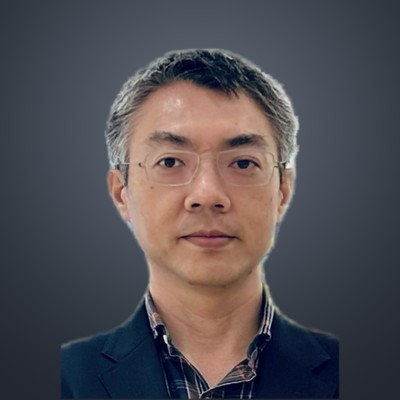
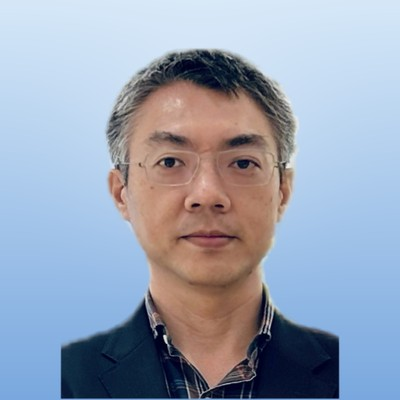
Peter Chen 照片背景改淺藍漸層（灰底太沉）

diff --git a/operators/index.html b/operators/index.html
@@ -241,7 +241,7 @@ button{cursor:pointer;border:none;background:none;font-family:inherit}
           <div class="adv-org" data-en="NVIDIA" data-zh="NVIDIA">NVIDIA</div>
           <div class="adv-role" data-en="Senior Engineer" data-zh="資深工程師">Senior Engineer</div>
         </div>
-        <div class="adv-av"><img src="../Team/Peter.jpg?v=3" alt="Peter Chen" loading="lazy" width="78" height="78"></div>
+        <div class="adv-av"><img src="../Team/Peter.jpg?v=4" alt="Peter Chen" loading="lazy" width="78" height="78"></div>
         <div class="adv-name">Peter Chen</div>
         <div class="adv-vert">DeepTech</div>
         <a href="https://www.linkedin.com/in/peter-chen-53131a51/" target="_blank" rel="noopener" class="adv-li"><svg viewBox="0 0 24 24"><path d="M19 3a2 2 0 0 1 2 2v14a2 2 0 0 1-2 2H5a2 2 0 0 1-2-2V5a2 2 0 0 1 2-2h14m-.5 15.5v-5.3a3.26 3.26 0 0 0-3.26-3.26c-.85 0-1.84.52-2.32 1.3v-1.11h-2.79v8.37h2.79v-4.93c0-.77.62-1.4 1.39-1.4a1.4 1.4 0 0 1 1.4 1.4v4.93h2.79M6.88 8.56a1.68 1.68 0 0 0 1.68-1.68c0-.93-.75-1.69-1.68-1.69a1.69 1.69 0 0 0-1.69 1.69c0 .93.76 1.68 1.69 1.68m1.39 9.94v-8.37H5.5v8.37h2.77z"/></svg><span>LinkedIn</span></a>

diff --git a/index.html b/index.html
@@ -1255,7 +1255,7 @@ footer{background:#060F1E;padding:72px 0 0}
           <div class="adv-org" data-en="NVIDIA" data-zh="NVIDIA">NVIDIA</div>
           <div class="adv-role" data-en="Senior Engineer" data-zh="資深工程師">Senior Engineer</div>
         </div>
-        <div class="adv-av"><img src="Team/Peter.jpg?v=3" alt="Peter Chen" loading="lazy" width="78" height="78"></div>
+        <div class="adv-av"><img src="Team/Peter.jpg?v=4" alt="Peter Chen" loading="lazy" width="78" height="78"></div>
         <div class="adv-name">Peter Chen</div>
         <div class="adv-vert">DeepTech</div>
         <a href="https://www.linkedin.com/in/peter-chen-53131a51/" target="_blank" rel="noopener" class="adv-li"><svg viewBox="0 0 24 24"><path d="M19 3a2 2 0 0 1 2 2v14a2 2 0 0 1-2 2H5a2 2 0 0 1-2-2V5a2 2 0 0 1 2-2h14m-.5 15.5v-5.3a3.26 3.26 0 0 0-3.26-3.26c-.85 0-1.84.52-2.32 1.3v-1.11h-2.79v8.37h2.79v-4.93c0-.77.62-1.4 1.39-1.4a1.4 1.4 0 0 1 1.4 1.4v4.93h2.79M6.88 8.56a1.68 1.68 0 0 0 1.68-1.68c0-.93-.75-1.69-1.68-1.69a1.69 1.69 0 0 0-1.69 1.69c0 .93.76 1.68 1.69 1.68m1.39 9.94v-8.37H5.5v8.37h2.77z"/></svg><span>LinkedIn</span></a>
